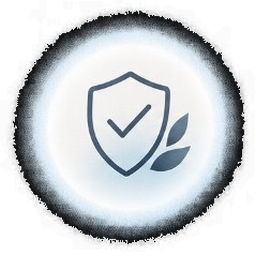
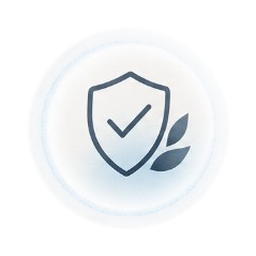
правки по картинкам фільтрів

Changed region(s): [[0.0312, 0.0312, 0.9688, 0.9688]]

diff --git a/static/css/product-filters.css b/static/css/product-filters.css
@@ -1,8 +1,9 @@
-/* Extra product feature filters (Krambals-style icons) + card badges. */
+/* Extra product feature filters under catalog chips. */
 
 .catalog-features {
   margin-top: 12px;
   grid-column: 1 / -1;
+  width: 100%;
 }
 
 .catalog-features[hidden] {
@@ -10,7 +11,7 @@
 }
 
 .catalog-features__title {
-  margin: 0 0 8px;
+  margin: 0 0 10px;
   font-size: 0.75rem;
   font-weight: 700;
   letter-spacing: 0.06em;
@@ -19,29 +20,21 @@
 }
 
 .catalog-features__row {
-  display: flex;
-  flex-wrap: nowrap;
-  gap: 8px 4px;
-  overflow-x: auto;
-  -webkit-overflow-scrolling: touch;
-  scrollbar-width: none;
-  padding: 2px 0 6px;
-  overscroll-behavior-x: contain;
-}
-
-.catalog-features__row::-webkit-scrollbar {
-  display: none;
+  display: grid;
+  grid-template-columns: repeat(8, minmax(0, 1fr));
+  gap: 12px 16px;
+  width: 100%;
+  padding: 2px 0 4px;
 }
 
 .catalog-feature {
-  flex: none;
   display: flex;
   flex-direction: column;
   align-items: center;
-  gap: 6px;
-  width: 86px;
-  min-height: 108px;
-  padding: 4px 2px 6px;
+  gap: 8px;
+  min-width: 0;
+  width: 100%;
+  padding: 4px 4px 8px;
   text-decoration: none;
   color: #1b2430;
   -webkit-tap-highlight-color: transparent;
@@ -53,24 +46,24 @@
 .catalog-feature__icon {
   width: 64px;
   height: 64px;
+  max-width: 100%;
   display: block;
   object-fit: contain;
-  background: #111;
-  border-radius: 50%;
+  background: transparent;
 }
 
 .catalog-feature__label {
+  width: 100%;
   font-size: 0.625rem;
   font-weight: 700;
-  letter-spacing: 0.03em;
+  letter-spacing: 0.02em;
   text-transform: uppercase;
   text-align: center;
-  line-height: 1.25;
-  display: -webkit-box;
-  -webkit-line-clamp: 2;
-  line-clamp: 2;
-  -webkit-box-orient: vertical;
-  overflow: hidden;
+  line-height: 1.3;
+  overflow-wrap: anywhere;
+  word-break: break-word;
+  -webkit-hyphens: auto;
+  hyphens: auto;
 }
 
 .catalog-feature:active {
@@ -82,55 +75,26 @@
   color: #163a72;
 }
 
-.catalog-feature.is-active .catalog-feature__icon {
-  box-shadow: 0 0 0 2px #163a72;
-}
-
-.product-card__media {
-  position: relative;
-}
-
-.product-card__badges {
-  position: absolute;
-  left: 4px;
-  right: 4px;
-  bottom: 4px;
-  display: flex;
-  flex-wrap: wrap;
-  gap: 2px;
-  justify-content: flex-start;
-  pointer-events: none;
-}
-
-.product-card__badge {
-  width: 28px;
-  height: 28px;
-  object-fit: contain;
-  background: #111;
-  border-radius: 50%;
-}
-
 @media (max-width: 767px) {
   .catalog-features {
     margin-top: 10px;
   }
 
   .catalog-features__row {
-    display: grid;
     grid-template-columns: repeat(4, minmax(0, 1fr));
-    overflow: visible;
-    gap: 8px 4px;
-    padding-bottom: 0;
-  }
-
-  .catalog-feature {
-    width: auto;
-    min-height: 0;
+    gap: 12px 10px;
   }
 
   .catalog-feature__icon {
-    width: 56px;
-    height: 56px;
+    width: 52px;
+    height: 52px;
+  }
+}
+
+@media (min-width: 768px) and (max-width: 1099px) {
+  .catalog-features__row {
+    grid-template-columns: repeat(4, minmax(0, 1fr));
+    gap: 14px 16px;
   }
 }
 
@@ -141,13 +105,9 @@
 }
 
 @media (min-width: 1100px) {
-  .catalog-feature {
-    width: 78px;
-  }
-
   .catalog-feature__icon {
-    width: 58px;
-    height: 58px;
+    width: 68px;
+    height: 68px;
   }
 }
 

diff --git a/templates/partials/catalog_results.html b/templates/partials/catalog_results.html
@@ -48,16 +48,6 @@
               {% if img_url %}
                 <img src="{{ img_url }}" alt="{{ product.name }}" loading="lazy" width="300" height="300">
               {% endif %}
-              {% if not product.is_snack and product.extra_filters.all %}
-                <div class="product-card__badges">
-                  {% for item in product.extra_filters.all %}
-                    {% filter_icon_url item as badge_url %}
-                    {% if badge_url %}
-                      <img class="product-card__badge" src="{{ badge_url }}" alt="{{ item.name }}" title="{{ item.name }}" width="28" height="28" loading="lazy" decoding="async">
-                    {% endif %}
-                  {% endfor %}
-                </div>
-              {% endif %}
             </div>
             <div class="product-card__body">
               <div class="product-card__brand">{{ brand.name }}</div>

diff --git a/apps/catalog/tests_selectors.py b/apps/catalog/tests_selectors.py
@@ -264,7 +264,8 @@ class ProductFilterSelectorsTests(TestCase):
         self.with_gluten.extra_filters.add(gf)
         response = self.client.get(reverse('products'))
         self.assertContains(response, 'catalog-features')
-        self.assertContains(response, 'product-card__badge')
+        self.assertContains(response, 'catalog-feature__icon')
+        self.assertNotContains(response, 'product-card__badge')
         self.assertContains(response, gf.name)
 
     def test_feature_filter_excludes_snacks(self):
